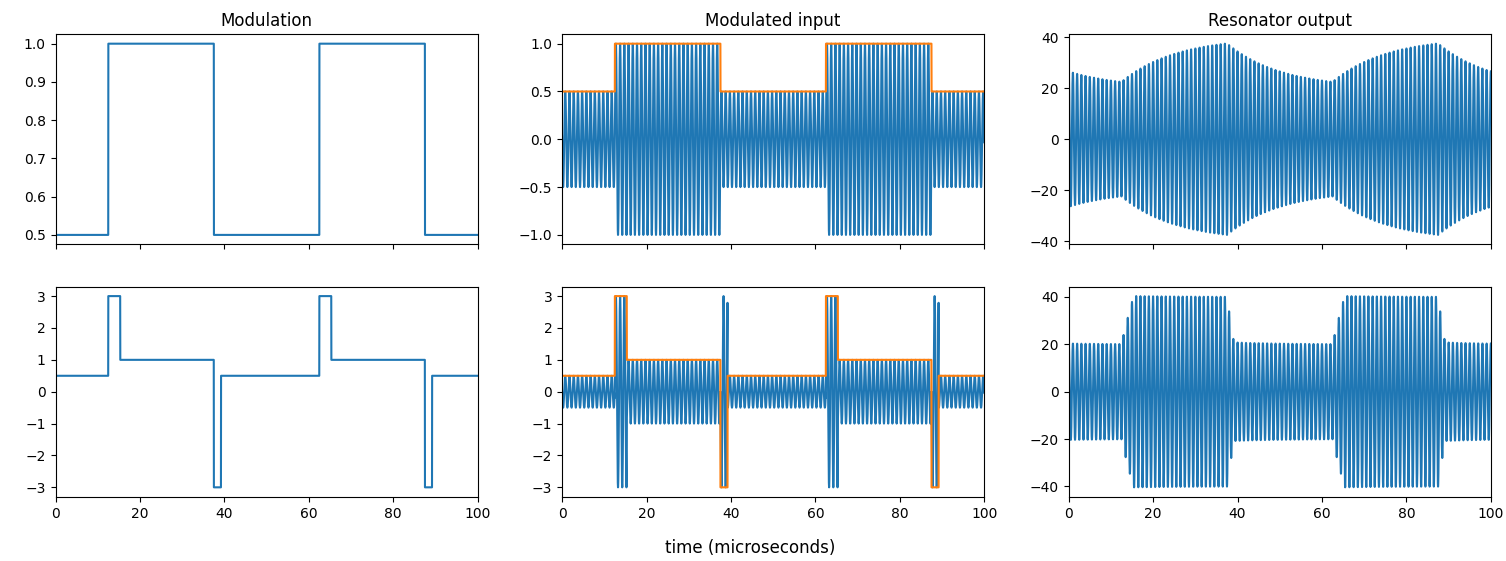
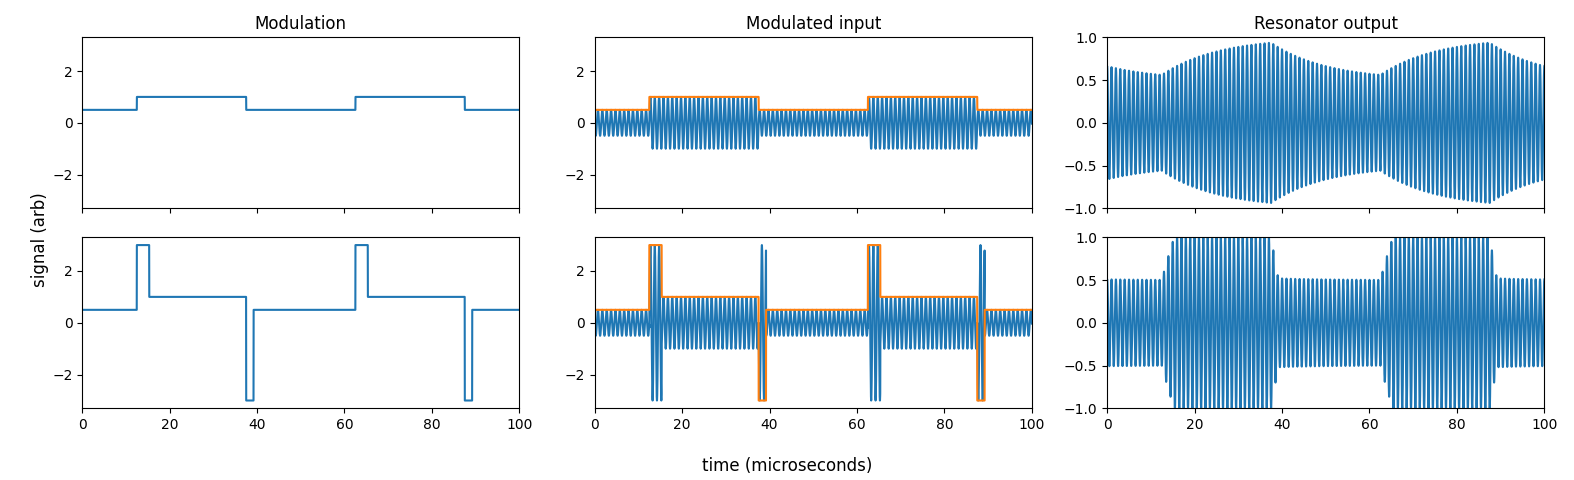
Add multiple coupled resonance discussion & example in

diff --git a/posts/2024-08-05/pre-distortion-high-q.py b/posts/2024-08-05/pre-distortion-high-q.py
@@ -1,6 +1,12 @@
+import itertools
+
 import matplotlib.pyplot as plt
 import numpy as np
+import pandas as pd
 import scipy.signal
+import scipy.optimize
+
+###### Simulation 1: controlling a single simple damped harmonic resonance
 
 fs = 1e8
 f0 = 1e6
@@ -16,9 +22,13 @@ v_max = 3
 v_h = 1.0
 v_l = 0.5
 
-# The transfer function for a resonator is: H(s) = w0^2 / (s^2 + w0/Q * s + w0^2)
+# The transfer function for a resonator is: H(s) = (w0^2 / Q) / (s^2 + w0/Q * s + w0^2)
+# Gain at resonance is 1 (0 dB).
 # Here we calculate a digital equivalent via bilinear transform
-filt = scipy.signal.bilinear(b=[w0**2], a=[1, w0 / Q, w0**2], fs=fs)
+filt = scipy.signal.bilinear(b=[w0**2 / Q], a=[1, w0 / Q, w0**2], fs=fs)
+# Verification
+# f, h = scipy.signal.freqz(*filt, worN=65536, fs=fs)
+# plt.loglog(f, np.abs(h))
 
 carrier = np.sin(w0 * t)
 modulation = v_l + (v_h - v_l) * (np.sin(f_mod * 2 * np.pi * t) >= 0)
@@ -37,12 +47,12 @@ for i in i_low_to_high:
     j = i + t_low_to_high
     predistortion[i:j] = v_max
 
-y = scipy.signal.lfilter(*filt, carrier * modulation, zi=[0, -1])[0]
-y2 = scipy.signal.lfilter(*filt, carrier * predistortion)
+y = scipy.signal.lfilter(*filt, carrier * modulation)
+y_pre = scipy.signal.lfilter(*filt, carrier * predistortion)
 
 t_usec = t * 1e6
 t_usec = t_usec - 87.5
-fig, axs = plt.subplots(2, 3, sharex=True)
+fig, axs = plt.subplots(2, 3, sharex='all', sharey='col')
 axs[0, 0].plot(t_usec, modulation)
 axs[0, 0].set_title("Modulation")
 axs[0, 1].plot(t_usec, modulation * carrier)
@@ -51,12 +61,98 @@ axs[0, 1].set_title("Modulated input")
 axs[0, 2].plot(t_usec, y)
 axs[0, 2].set_title("Resonator output")
 
+axs[1, 0].plot(t_usec, predistortion)
+axs[1, 1].plot(t_usec, predistortion * carrier)
+axs[1, 1].plot(t_usec, predistortion)
+axs[1, 2].plot(t_usec, y_pre)
+axs[1, 2].set_xlim([0, 100])
+axs[1, 2].set_ylim([-1, 1])
+
+
+fig.supxlabel("time (microseconds)")
+fig.supylabel("signal (arb)")
+plt.show()
+
+
+
+
+####### Figure out Q of cascaded filters
+
+Qs = np.logspace(np.log10(2), np.log10(200), 40)
+worN = 65536
+df = pd.DataFrame(columns=('Q1', 'Q2', 'Qeff'))
+i = 0
+for Q1, Q2 in itertools.combinations(Qs, 2):
+    w, h1 = scipy.signal.freqs(b=[1/Q1], a=[1, 1 / Q1, 1], worN=worN)
+    # plt.loglog(w, np.abs(h1))
+    _, h2 = scipy.signal.freqs(b=[1/Q2], a=[1, 1 / Q2, 1], worN=w)        
+    w_bw = w[ np.abs(h1 * h2) > 1/np.sqrt(2) ]
+    bw = np.max(w_bw) - np.min(w_bw)
+    Qeff = 1 / bw
+    print(f"{Q1=} {Q2=} Qeff={np.round(Qeff, 2)}")
+    df.loc[i] = [Q1, Q2, Qeff]
+    i += 1
+
+# fit a simple model
+p0=(1,1)
+def f(x, a, b):
+    return np.sum(x**a, axis=1)**b
+
+xdata=df[['Q1', 'Q2']]
+popt, pcov = scipy.optimize.curve_fit(f, xdata=xdata, ydata=df['Qeff'], p0=p0)
+df['Qpred'] = f(xdata, *popt)
+plt.figure()
+plt.scatter(df['Qeff'], df['Qpred'])
+plt.title('Predicted vs actual Q')
+
+
+#### example 2: controlling a coupled resonator system
+
+# aside from these, use the same parameters as above
+Q1 = 40
+Q2 = 20
+Qeff = (Q1**1.577 + Q2**1.577)**0.635
+tau_eff = Qeff / np.pi / f0
+filt1 = scipy.signal.bilinear(b=[w0**2 / Q1], a=[1, w0 / Q1, w0**2], fs=fs)
+filt2 = scipy.signal.bilinear(b=[w0**2 / Q2], a=[1, w0 / Q2, w0**2], fs=fs)
+
+t_high_to_low = int(-tau_eff * np.log(1 - (v_h - v_l) / (v_max + v_h)) * fs)
+t_low_to_high = int(-tau_eff * np.log(1 - (v_h - v_l) / (v_max - v_l)) * fs)
+predistortion = modulation.copy()
+
+for i in i_high_to_low:
+    j = i + t_high_to_low
+    predistortion[i:j] = -v_max
+
+for i in i_low_to_high:
+    j = i + t_low_to_high
+    predistortion[i:j] = v_max
+
+y = scipy.signal.lfilter(*filt1, carrier * modulation)
+y2 = scipy.signal.lfilter(*filt2, y)
+
+y_pre = scipy.signal.lfilter(*filt1, carrier * predistortion)
+y_pre2 = scipy.signal.lfilter(*filt2, y_pre)
+
+t_usec = t * 1e6
+t_usec = t_usec - 87.5
+fig, axs = plt.subplots(2, 3, sharex='all', sharey='col')
+axs[0, 0].plot(t_usec, modulation)
+axs[0, 0].set_title("Modulation")
+axs[0, 1].plot(t_usec, modulation * carrier)
+axs[0, 1].plot(t_usec, modulation)
+axs[0, 1].set_title("Modulated input")
+#axs[0, 2].plot(t_usec, y)
+axs[0, 2].plot(t_usec, y2)
+axs[0, 2].set_title("Resonance 2 output")
 
 axs[1, 0].plot(t_usec, predistortion)
 axs[1, 1].plot(t_usec, predistortion * carrier)
 axs[1, 1].plot(t_usec, predistortion)
-axs[1, 2].plot(t_usec, y2)
+#axs[1, 2].plot(t_usec, y_pre)
+axs[1, 2].plot(t_usec, y_pre2)
 axs[1, 2].set_xlim([0, 100])
+axs[1, 2].set_ylim([-1, 1])
 
 fig.supxlabel("time (microseconds)")
 fig.supylabel("signal (arb)")

diff --git a/posts/2024-08-05/exceeding-the-q-bandwidth-limit-for-communication-via-high-q-resonant-coupled-inductors.md b/posts/2024-08-05/exceeding-the-q-bandwidth-limit-for-communication-via-high-q-resonant-coupled-inductors.md
@@ -7,9 +7,11 @@
 3. However, the higher the Q of either the driver or receiver, the longer it takes for that system to adapt to/recognize step changes in amplitude. $\tau = \frac{Q}{\pi f_0}$ seconds (or $\frac{Q}{\pi}$ cycles).
 4. If this imposes an unacceptable bandwidth limit, there are a few possible options:
     1. reduce the Q (but power transfer will suffer).
-    2. change the data encoding from an AM to an FM scheme.
-    3. pre-distort the drive signal such that the receiver sees a sudden step in amplitude, not an exponential decay transition.
-5. Here I explore a simple scheme for the last option, which can yield significant improvements in bandwidth.
+    2. change the data encoding from an AM to an FM scheme (e.g., [Troyk and DeMichele, 2003](https://ieeexplore.ieee.org/abstract/document/1280869), or [Haeri and Safarian, 2022](https://ieeexplore.ieee.org/abstract/document/9852151)).
+    3. find a mechanism to rapidly add and remove energy from the resonant system, such as:
+        1. dumping a charged capacitor to step down, then adding a charged capacitor to step back up.
+        2. pre-distort the drive voltage signal to rapidly add/remove energy from the system.
+5. Here I explore a simple scheme for the last option, which can yield significant improvements in bandwidth without requiring significant hardware changes to the resonant driver.
 
 
 ## Approach
@@ -32,13 +34,28 @@ How long is "briefly" in the above description of the approach?
 2. To transition from high to low, it's $-\tau \ln \( 1 - \frac{V_H - V_L}{V_{max} + V_H} \)$ (just the denominator that changes).
 
 
-## Example
-Here's an example for a system with a Q of 40, a resonant frequency of 1 MHz, with $V_H$ = 1 V, $V_L$ = 0.5 V, and a $V_{max}$ = 3 V. The symbol rate here is 40 kHz, or put differently, a high- or low-amplitude state lasts 25 microseconds. In the top row (in which we simply modulate the input to the resonator with the desired output square wave), the resonator is nearly smoothing (filtering) out the modulation (rightmost plot). However, if we overdrive the resonator each time we switch states, as described above, then we get rapid, precise transitions between levels.
+### Example 1
+Here's an example for a system with a Q of 40, a resonant frequency of 1 MHz, with $V_H$ = 1 V, $V_L$ = 0.5 V, and a $V_{max}$ = 3 V. The symbol rate here is 40 kHz, or put differently, a high- or low-amplitude state lasts 25 microseconds. In the top row (in which we simply modulate the input to the resonator with the desired output square wave), the resonator is nearly smoothing (filtering) out the modulation (rightmost plot). However, if we overdrive the resonator each time we switch states (bottom row, left and middle plots), as described above, then we get rapid, precise transitions between levels (bottom row, right-most plot).
 
 ![image](fig1.png)
 
 And [here's the script](pre-distortion-high-q.py) that runs that analysis.
 
-## What's omitted here?
-1. All of the above analysis concerned a single resonator, not a pair of coupled resonances as in an inductive link. In the regime of very weak coupling, the above scheme basically just ensures the *drive coil* has a step-like amplitude transition. The voltage observed by the receiver still has to ring down on its own, so we're still stuck with bandwidth limits of the receiver Q.
-2. During this modulation, is power transfer efficiency still high? Or have we inadvertently sacrified power transfer efficiency when we have to overdrive the drive coil?
+
+### From a single resonator to two coupled resonators
+
+All of the above analysis concerned a single resonator, not a pair of coupled resonances as in an inductive link. In the regime of very weak coupling, we could use the above scheme, plug in the drive coil Q, and ensures the *drive coil* has a step-like amplitude transition. But the voltage observed by the receiver still has to ring down on its own, so we'd still be stuck with the bandwidth limits of the receiver Q. Perhaps we can play the same trick for the overall system? Put differently, can we think of the whole system as having some equivalent Q?
+
+For identical resonators in series, there's an [exact formula for the equivalent Q](https://ieeexplore.ieee.org/abstract/document/1451088), published in 1973 no less! For the specific case of two identical resonators with some quality factor $Q$, the equivalent quality factor is about $1.554 Q$. If the Qs are unequal, for Qs in the range of 2-200, a good approximation for the resulting Q (measured as the -3dB bandwidth over the resonant frequency) is $Q_{equivalent} = \left( Q_1^{1.577} + Q_2^{1.577} \right)^{0.635}$.
+
+### Example 2
+
+How well does this work? Here's an example with the same parameters as example 1 above, except instead of a single resonator, it is two resonators in series with Qs of 40 and 20 ($Q_{equivalent} \approx 48$ for these combined resonators). This example is probably analogous to two weakly coupled inductors ($k \ll 1$), but may not hold for strongly coupled inductors.
+
+![image](fig2.png)
+
+In this example, if we simply modulate the driving voltage (top row) you can clearly see that the 2nd resonator does not reach steady state when switched every 25 microseconds (in fact, its 10%-90% rise time is ~31 microseconds). However, if we overdrive the system (shown in the bottom row) as discussed above by using the effective Q of 48, the rise time improves ~3x, dropping to 10 microseconds.
+
+## What's missing here?
+1. During this modulation, is power transfer efficiency still high? Or have we inadvertently sacrified power transfer efficiency when we have to overdrive the drive coil?
+
